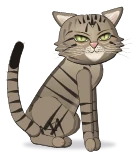
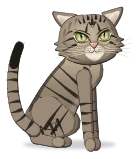
art(v2): wider glare eyes so Mocha's glare reads at game scale (#141)
Claude-Session: https://claude.ai/code/session_0142jut9cfpefFG4m8npvL9j

Changed region(s): [[0.5217, 0.1761, 0.6667, 0.2767], [0.6957, 0.1761, 0.8116, 0.2767]]

diff --git a/docs/art/v2/src/mocha.py b/docs/art/v2/src/mocha.py
@@ -100,7 +100,7 @@ def eye(doc, side, mode="open"):
     out = ""
     if mode in ("open", "wide", "smug", "glare"):
         if mode == "glare":   # narrowed and slanted down toward the nose
-            upper = [(X(318), 200), (X(330), 191), (X(350), 183), (X(370), 179), (X(382), 183)]
+            upper = [(X(318), 197), (X(330), 184), (X(350), 172), (X(370), 166), (X(382), 172)]
         elif mode == "smug":
             upper = [(X(318), 196), (X(330), 186), (X(350), 181), (X(370), 184), (X(382), 190)]
         elif mode == "wide":
@@ -109,7 +109,7 @@ def eye(doc, side, mode="open"):
             upper = [(X(318), 194), (X(326), 168), (X(349), 156), (X(372), 162), (X(382), 184)]
         lower = [(X(382), 188), (X(373), 208), (X(350), 216), (X(328), 210)]
         if mode == "glare":
-            lower = [(X(382), 188), (X(373), 204), (X(350), 210), (X(328), 207)]
+            lower = [(X(382), 186), (X(373), 206), (X(350), 213), (X(328), 208)]
         shape = upper + lower
         d = smooth(shape)
         clip = doc.clip(d)
@@ -140,7 +140,7 @@ def eye(doc, side, mode="open"):
         o += P(taper([(X(326), 214), (X(350), 222), (X(376), 212)], 4, .3, .3), "#E6DAC4", opacity=.8)
         o += P(taper([(X(319), 198), (X(314), 212), (X(310), 226)], 3.4, .1, .8), FUR_LN, opacity=.85)
         if mode == "glare":   # the furrowed fur above the eye
-            o += P(taper([(X(314), 186), (X(342), 170), (X(378), 164)], 4.2, .2, .6), FUR_LN, opacity=.8)
+            o += P(taper([(X(312), 184), (X(342), 164), (X(380), 154)], 5.2, .2, .6), FUR_LN, opacity=.85)
         if mode == "smug":
             o += P(taper([(X(324), 176), (X(350), 172), (X(376), 178)], 1.6, .3, .3), FUR_LN, opacity=.6)
         out += o

diff --git a/docs/art/v2/README.md b/docs/art/v2/README.md
@@ -212,7 +212,8 @@ Hence the bitmap pass.
 | `poses-baokaka.png`, `poses-mocha.png` | Labelled pose sheets. Every frame shown is the baked bitmap. |
 | `poses-cycles.png` | Contact sheet of the three cycles. Each row shows frames 1–8, then frame 1 again (green box) so the loop seam is visible, an onion skin of the last frame over the first, and the numeric loop check. |
 | `preview-baokaka-crawl.gif`, `preview-baokaka-walk.gif`, `preview-mocha-walk.gif` | Animated previews of the cycles. |
-| `baked/poses/<char>-<pose>-<i>@2x.webp` / `@3x.webp` | 31 poses and 63 frames (Baokaka 18 poses / 39 frames, Mocha 13 / 24). About 450 KB total @2x and 580 KB @3x. |
+| `baked/poses/<char>-<pose>-<i>@2x.webp` / `@3x.webp` | 40 poses and 77 frames (Baokaka 24 poses / 50 frames, Mocha 16 / 27). About 550 KB total @2x and 710 KB @3x. |
+| `baked/poses-src.json` | A hash of each pose's drawing. `bake_poses.py` re-renders only the poses whose hash changed (see Rebuild). |
 | `baked/poses.json` | Manifest, per pose: Chinese label, `frames`, `keyframes`, `loop`, `fps`, `size_pt`, `anchor_pt` (the foot point, measured from the top-left), file names, byte count, plus the loop-check results. |
 
 **Rig** (`src/rig.py`, `src/bk_poses.py`, `src/mo_poses.py`):
@@ -252,13 +253,29 @@ Hence the bitmap pass.
 | Mocha eye-contact | `push` frame 1 (looks at the camera) |
 | Mocha puff (wet) | `puff` |
 | Mocha walk (linked) | `walk` (8) |
+| reach (2) | `reach` (2: frame 2 is higher on his knees, both hands up) |
+| look L/R | `look` (2: over his shoulder, then far ahead) |
+| watch-sway (2) | `watch` (2: rocking toward and away from the light) |
+| ride-giggle | `giggle` (leaning back, feet up, laughing) |
+| touch-watch head turn | `touchwatch` (head tipped up toward the finger, curious) |
+| carried | `carried` (lifted under the arms, legs dangling; the carrier's hands are the carrier's art, so there is no shadow) |
+| climb (3) | `climb` (pull-up, knee-over, up on all fours) |
+| Mocha glare | `glare` (the `glare` head: narrowed, slanted eyes, a furrow, ears flattened out and back; tail up and stiff) |
+| Mocha purr | `purr` (the loaf with the `purr` head: eyes closed) |
+| Mocha in-box | `inbox` (head, shoulders and front paws over the rim; cut flat at the anchor, which is the middle of the rim) |
 
-**Not yet drawn:**
-- Baokaka: look L/R, watch-sway, ride-giggle, carried, climb (3), touch-watch.
-- Mocha: glare, purr, in-box.
+The last ten rows were added in #141 (D-58). Every GDD frame is drawn except stand-cruise's fourth (`pull` + `wobble` are 3 of 4).
 
-Most of these are cheap with the rig (a head turn or expression swap on `sit`/`loaf`).
+**Climb.** The step is the page's art, not the frame's. A climb edge moves the anchor up the step while the frames play, so each frame stands on its own point:
+- frame 1 kneels on the lower floor (the anchor) with his hands on a step top about 22 pt (240 units) up;
+- frame 2 straddles the riser: the anchor is halfway up, the far knee on the lower floor below it, the near knee and the hands on the step top above it;
+- frame 3 is on all fours on top (the anchor), the far foot trailing back over the edge.
 
-**Engineers' note (#95, D-57).** The game maps its modes onto these poses in `src/popup/view/actors/animMap.ts` and shows a fallback for each frame not drawn yet (look L/R, watch-sway, ride-giggle, touch-watch, Mocha glare, purr, in-box; also `reach` has 1 of the GDD's 2 frames). `#/pagelab?section=sprites` lists every GDD § 3.9 frame as ✓ / ✗ / later, so you can see what is left. Cycles are 8 frames; the GDD table now says so.
+He does not stand on the step: climbing a step (growth 1) comes before standing (growth 2).
 
-**Rebuild:** `python3 docs/art/v2/tools/bake_poses.py` (about 2 minutes).
+**Engineers' note (#95, D-57).** The game maps its modes onto these poses in `src/popup/view/actors/animMap.ts`. `#/pagelab?section=sprites` lists every GDD § 3.9 frame as ✓ / ✗ / later, so you can see what is left. Cycles are 8 frames; the GDD table now says so. Since #141 (D-58) no M1 row is ✗ and no fallback is left.
+
+**Rebuild:** `python3 docs/art/v2/tools/bake_poses.py`, then `npm run sync:sprites` in the repo root.
+- Only poses whose drawing changed are re-rendered (a few seconds per pose). Chromium's blurs are not bit-exact from run to run, so re-rendering an untouched pose would churn its files.
+- `--force` re-renders everything (about 3 minutes).
+- `--adopt` records the hashes of the current drawing for files already baked, without rendering.
